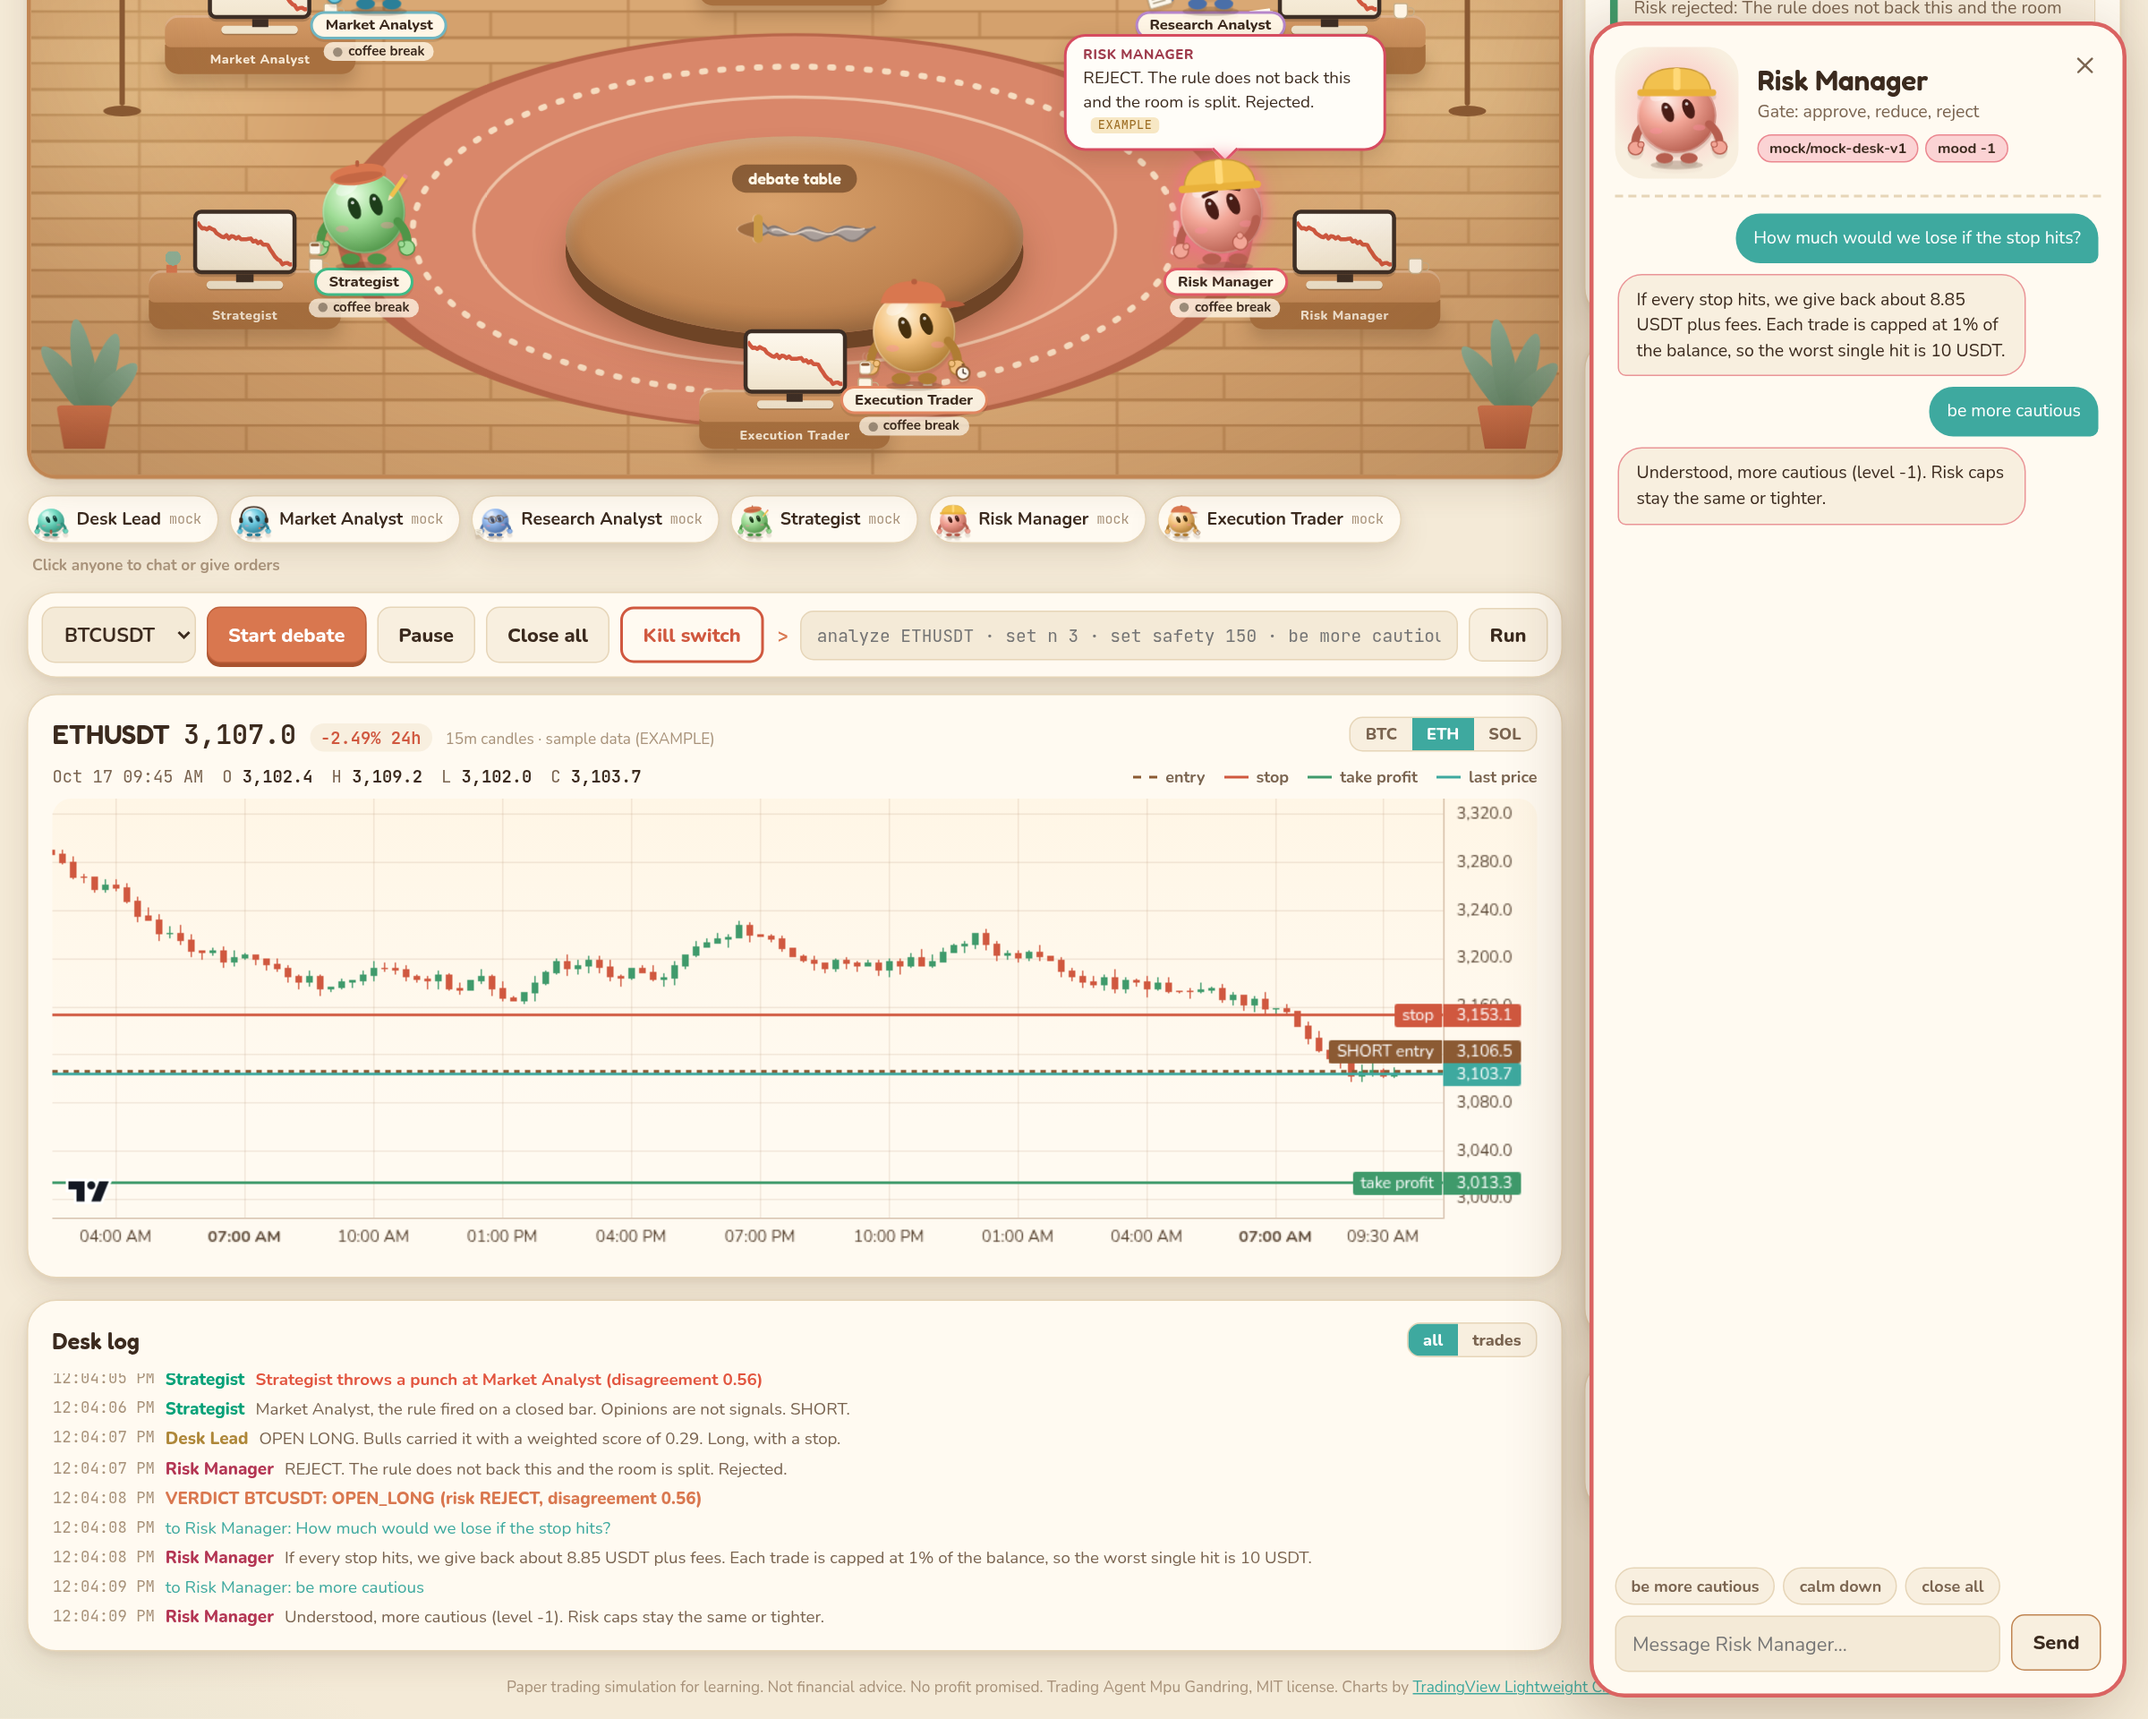
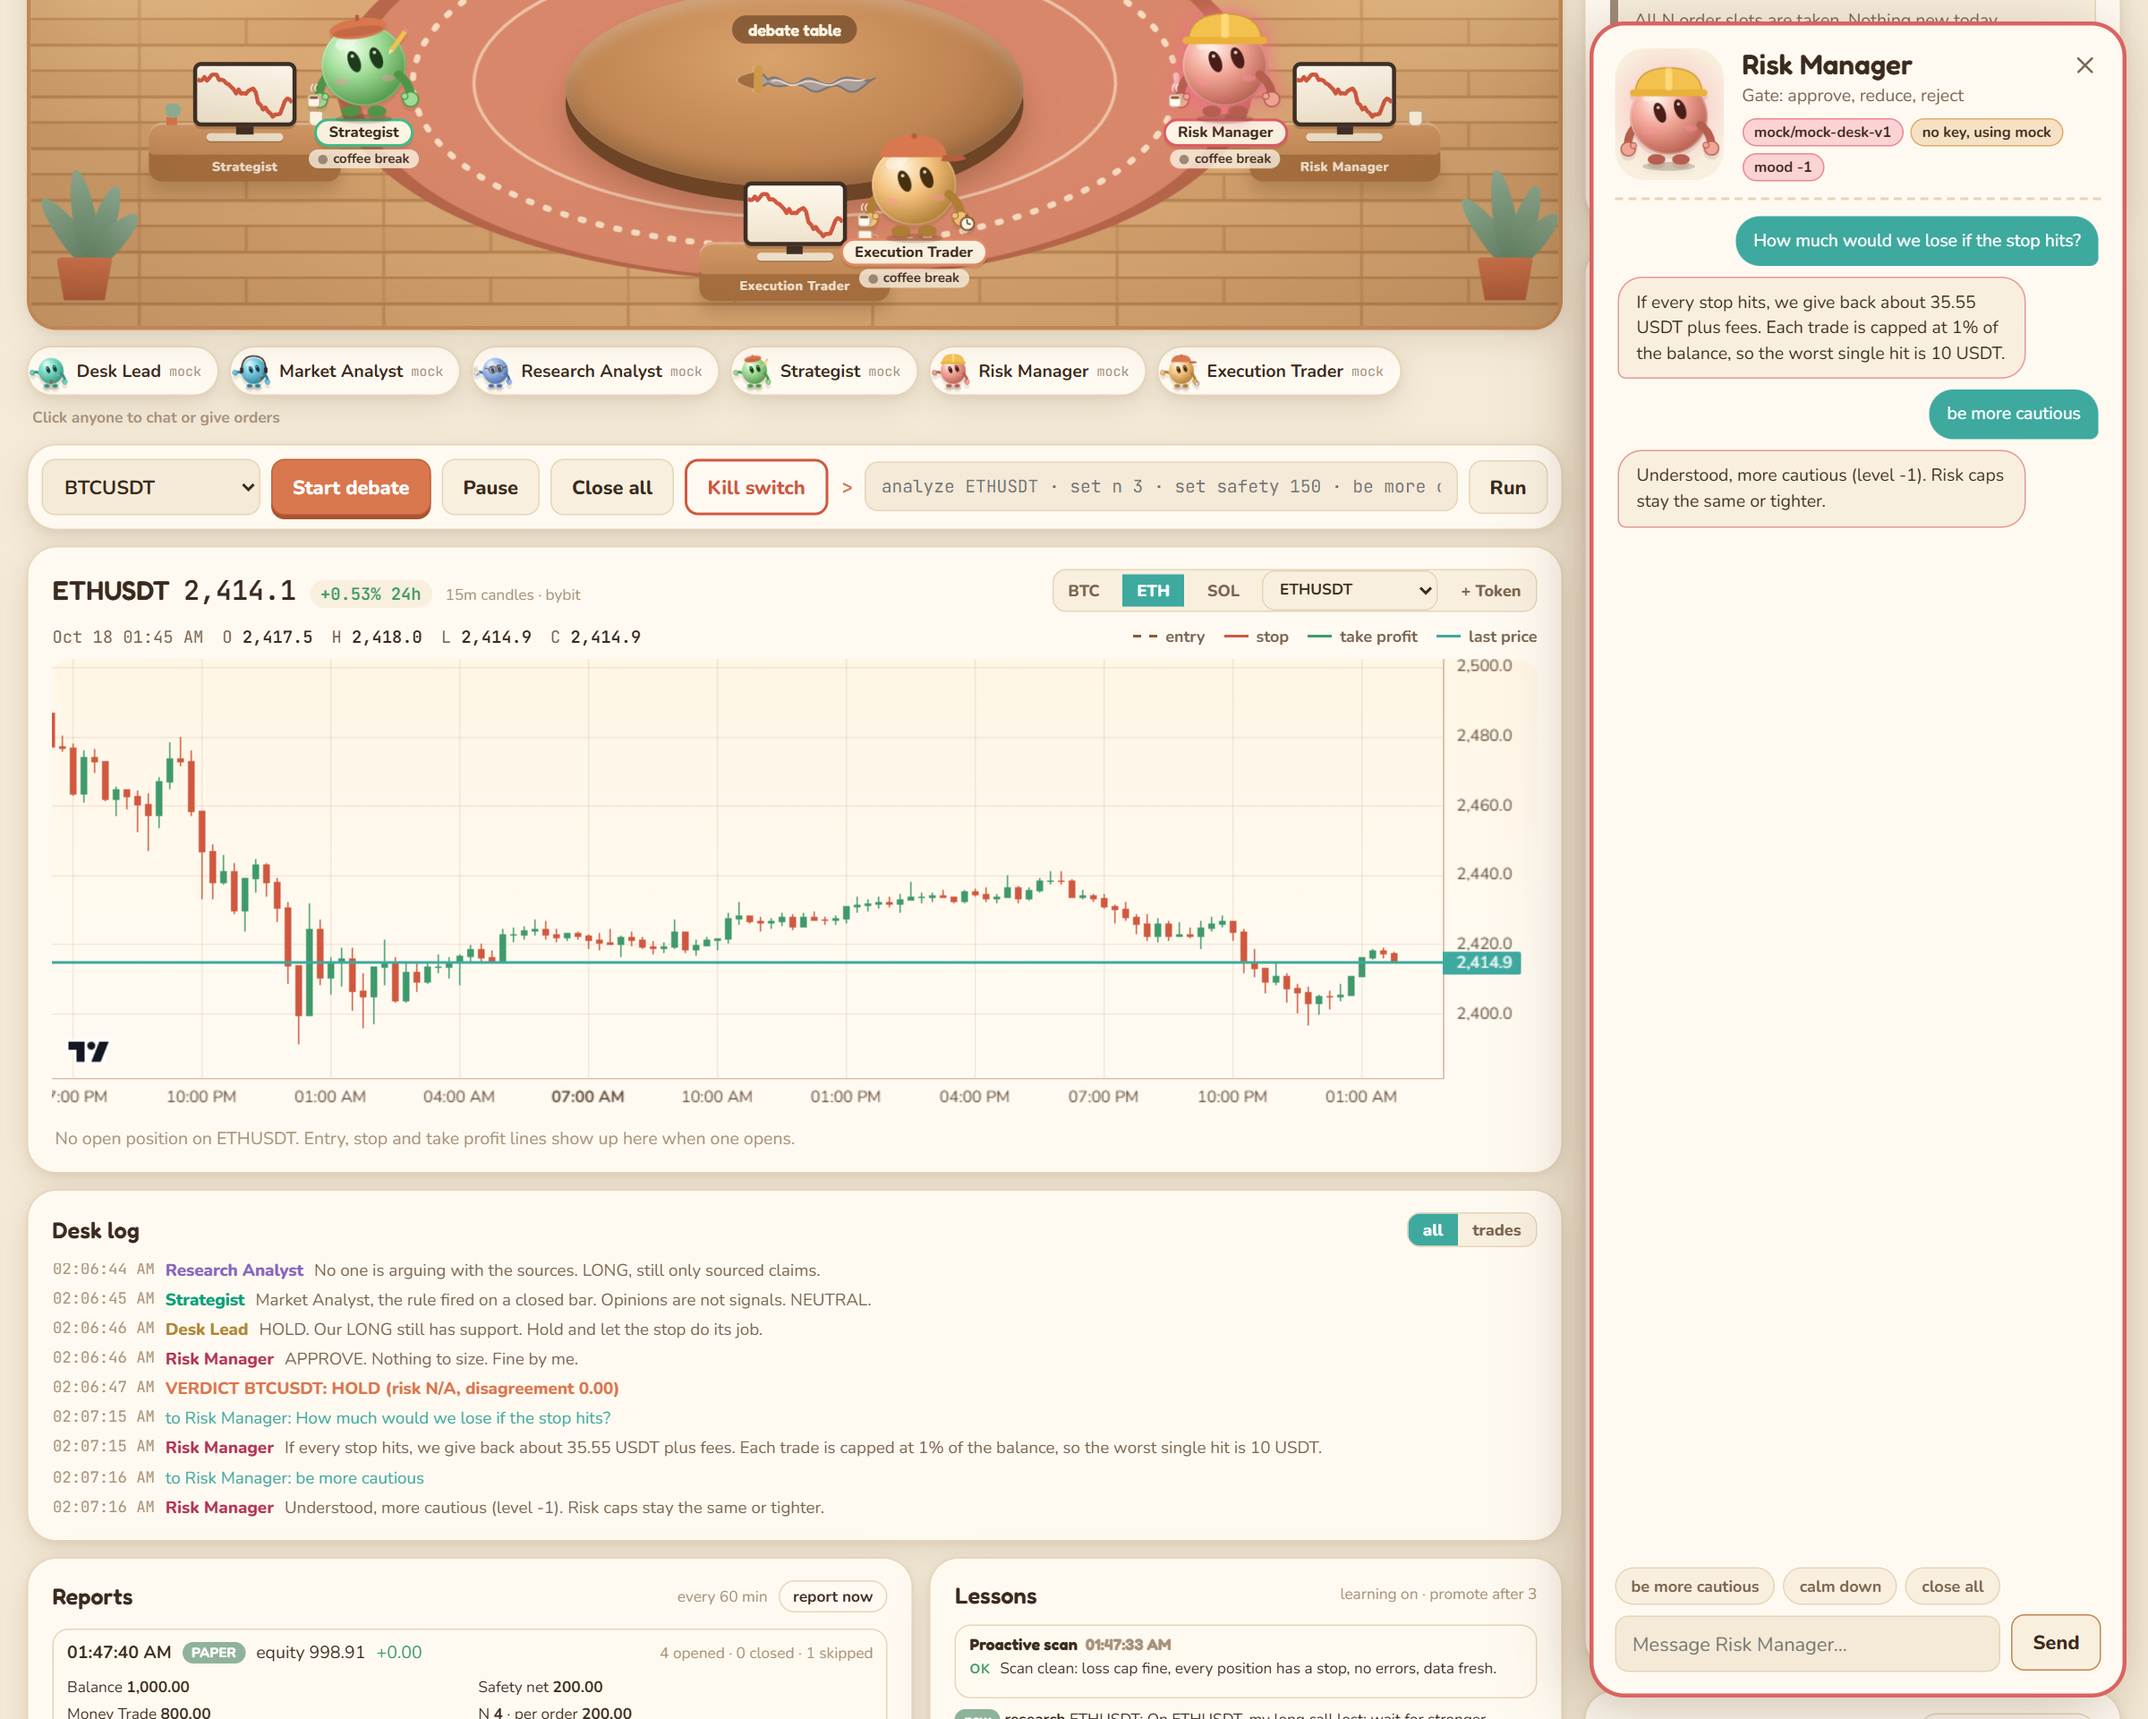
fix(ui): balance stage and side columns and refresh README screenshots

diff --git a/web/src/styles/app.css b/web/src/styles/app.css
@@ -73,6 +73,9 @@ a.trbtn:hover { opacity: 0.9; transform: translateY(-1px); color: #fff !importan
 .layout { display: grid; grid-template-columns: minmax(0, 1fr) 400px; grid-template-areas: 'stage side'; gap: 16px; margin-top: 6px; align-items: start; }
 .stage { grid-area: stage; display: flex; flex-direction: column; gap: 12px; min-width: 0; }
 .side { grid-area: side; display: flex; flex-direction: column; gap: 16px; }
+.stage-duo { display: grid; grid-template-columns: minmax(0, 1.4fr) minmax(0, 1fr); gap: 12px; align-items: start; }
+.stage-duo > .panel { margin: 0; min-width: 0; }
+@media (max-width: 900px) { .stage-duo { grid-template-columns: 1fr; } }
 .bottom { grid-area: bottom; min-width: 0; }
 
 .panel { position: relative; background: var(--panel); border: 1.5px solid var(--line); border-radius: var(--radius-lg); padding: 16px 18px; box-shadow: var(--shadow); }

diff --git a/web/src/App.tsx b/web/src/App.tsx
@@ -130,14 +130,16 @@ function AppInner() {
           <CommandBar state={state} command={(cmd) => command(cmd)} />
           <PriceChart state={state} symbol={sym} onSymbol={setSymbol} data={candles} theme={theme} />
           <TradeLog state={state} />
+          <div className="stage-duo">
+            <Reports state={state} />
+            <Lessons state={state} />
+          </div>
         </section>
         <aside className="side">
           <FightMeter state={state} meter={meter} />
           <Verdicts state={state} />
           <Portfolio state={state} command={(cmd) => void command(cmd)} />
           <DeskOps state={state} />
-          <Reports state={state} />
-          <Lessons state={state} />
         </aside>
       </main>
       {setup && <SetupWizard state={state} onClose={closeSetup} />}

diff --git a/README.md b/README.md
@@ -8,11 +8,11 @@ Six AI trading agents share one office. They read the market, argue about it, th
 
 You watch all of it live in a little virtual office in your browser, and you can walk up to any agent and talk to them or give orders.
 
-![The cozy office mid-debate, Market Analyst landing a punch on the Strategist](docs/screenshot.png)
+![The cozy office with the fight meter, verdicts and paper book with four open LONG positions and the Money Trade / N allocation](docs/screenshot.png)
 
-![Chatting with the Risk Manager while the ETH chart shows the paper SHORT with its entry, stop and take profit](docs/screenshot-chat.png)
+![Chatting with the Risk Manager next to the ETH chart, the desk log, and the Reports and Lessons panels side by side](docs/screenshot-chat.png)
 
-Screenshots use the offline sample data where `MARKET_SOURCE=sample`, so prices are tagged EXAMPLE.
+Screenshots are taken in PAPER mode with the keyless `mock` provider and live public Bybit prices. Verdict cards from the mock provider are tagged EXAMPLE.
 
 > **Risk warning. Paper trading by default. Not financial advice. No profit promised.** This is an educational project about multi-agent decision making. If you choose TESTNET or LIVE in setup, the agents trade **on their own** in full auto with no approval step: they open, close, size and set stops without asking you. In LIVE that is real money and you can lose it, quickly. Automatic guards including the no-withdraw key check, stop on every order, daily loss stop, safety net, max N and kill switch limit damage; they do not prevent losses. Read [docs/live-trading.md](docs/live-trading.md) first.
 
